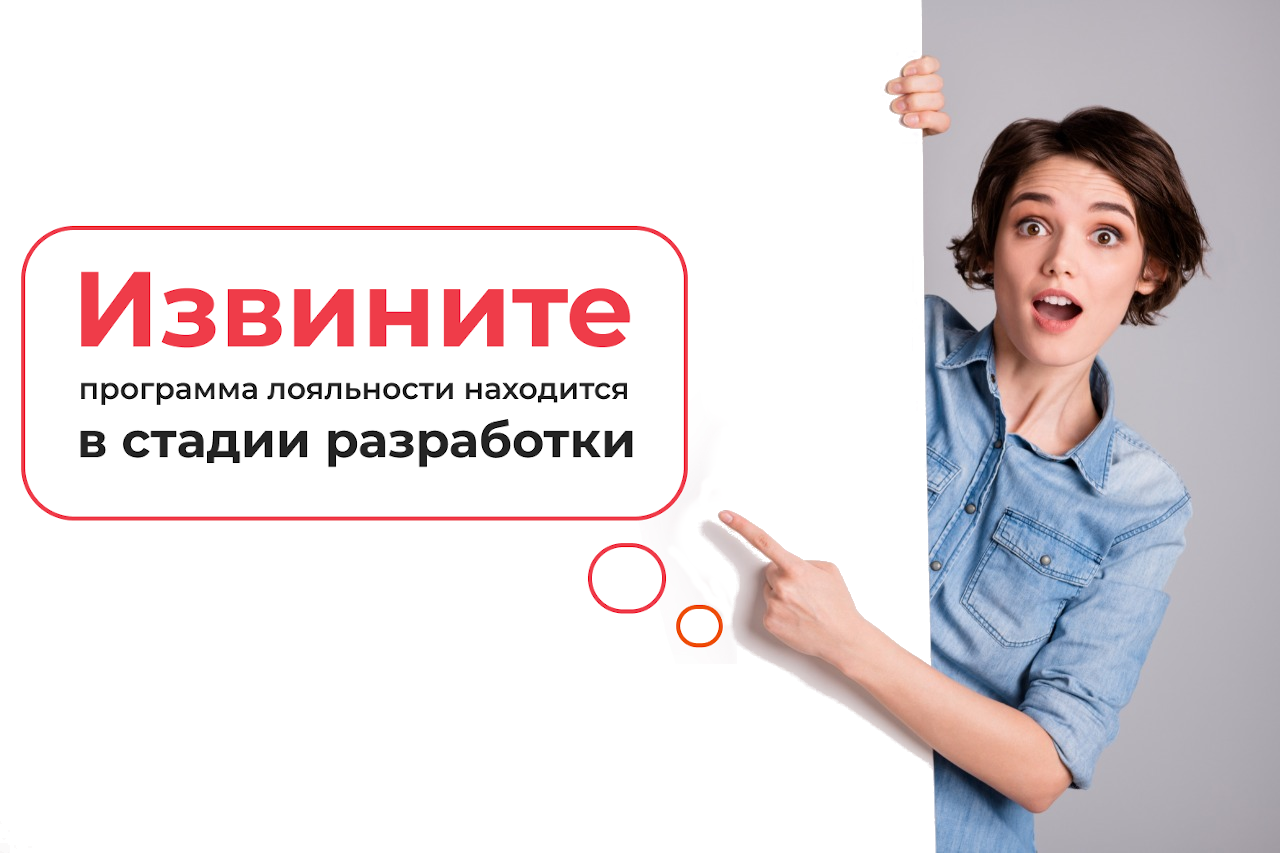
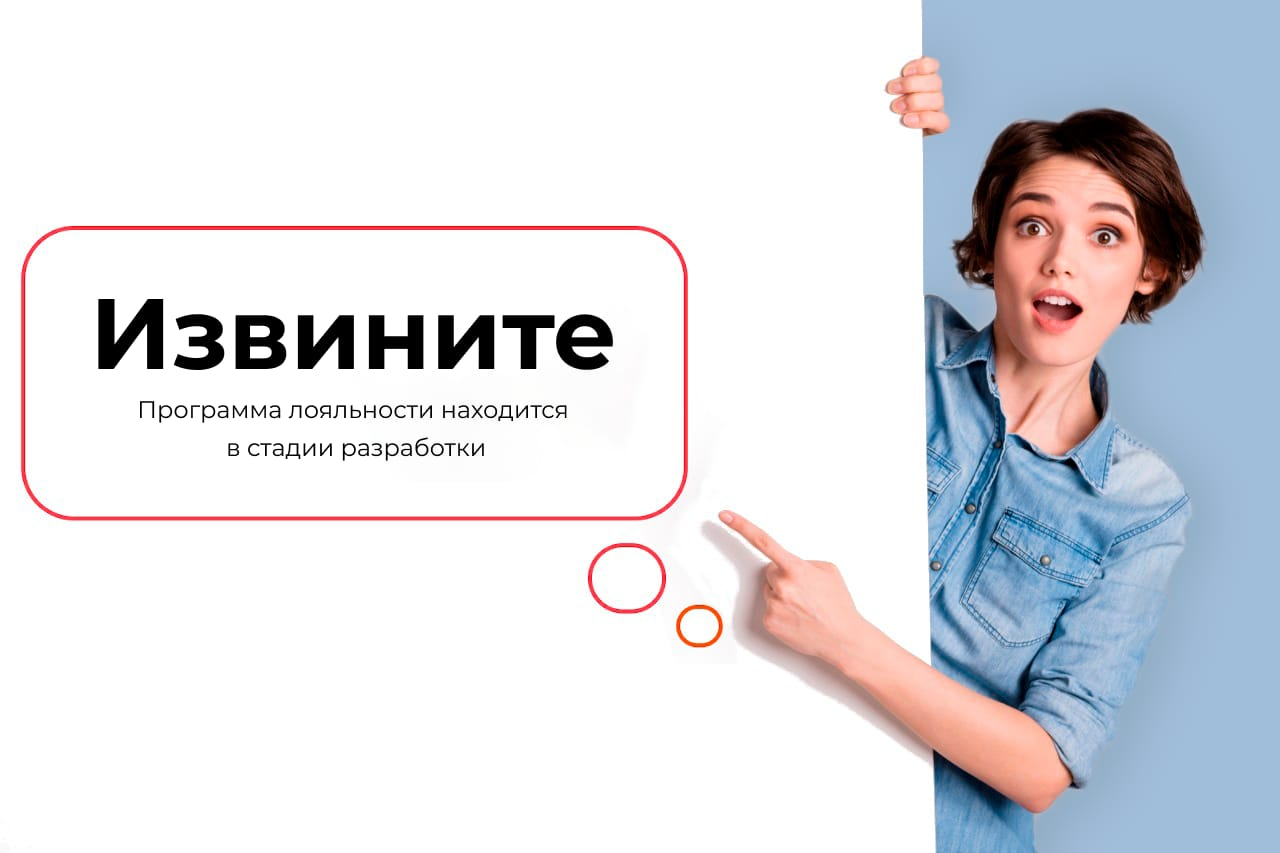
chsnging photos of tamplate pages (stocks-page)

diff --git a/wp-content/themes/krymking/stocks-page.php b/wp-content/themes/krymking/stocks-page.php
@@ -8,7 +8,7 @@ global $current_user;
 	<?if (function_exists('dimox_breadcrumbs')) dimox_breadcrumbs();?>
 </div>
 <center>
-<img src="<?=get_template_directory_uri();?>/images/stocks.png" alt="Акции">
+<img src="<?=get_template_directory_uri();?>/images/stocks.jpg" alt="Акции">
 </center>
 <?php
 get_footer();
